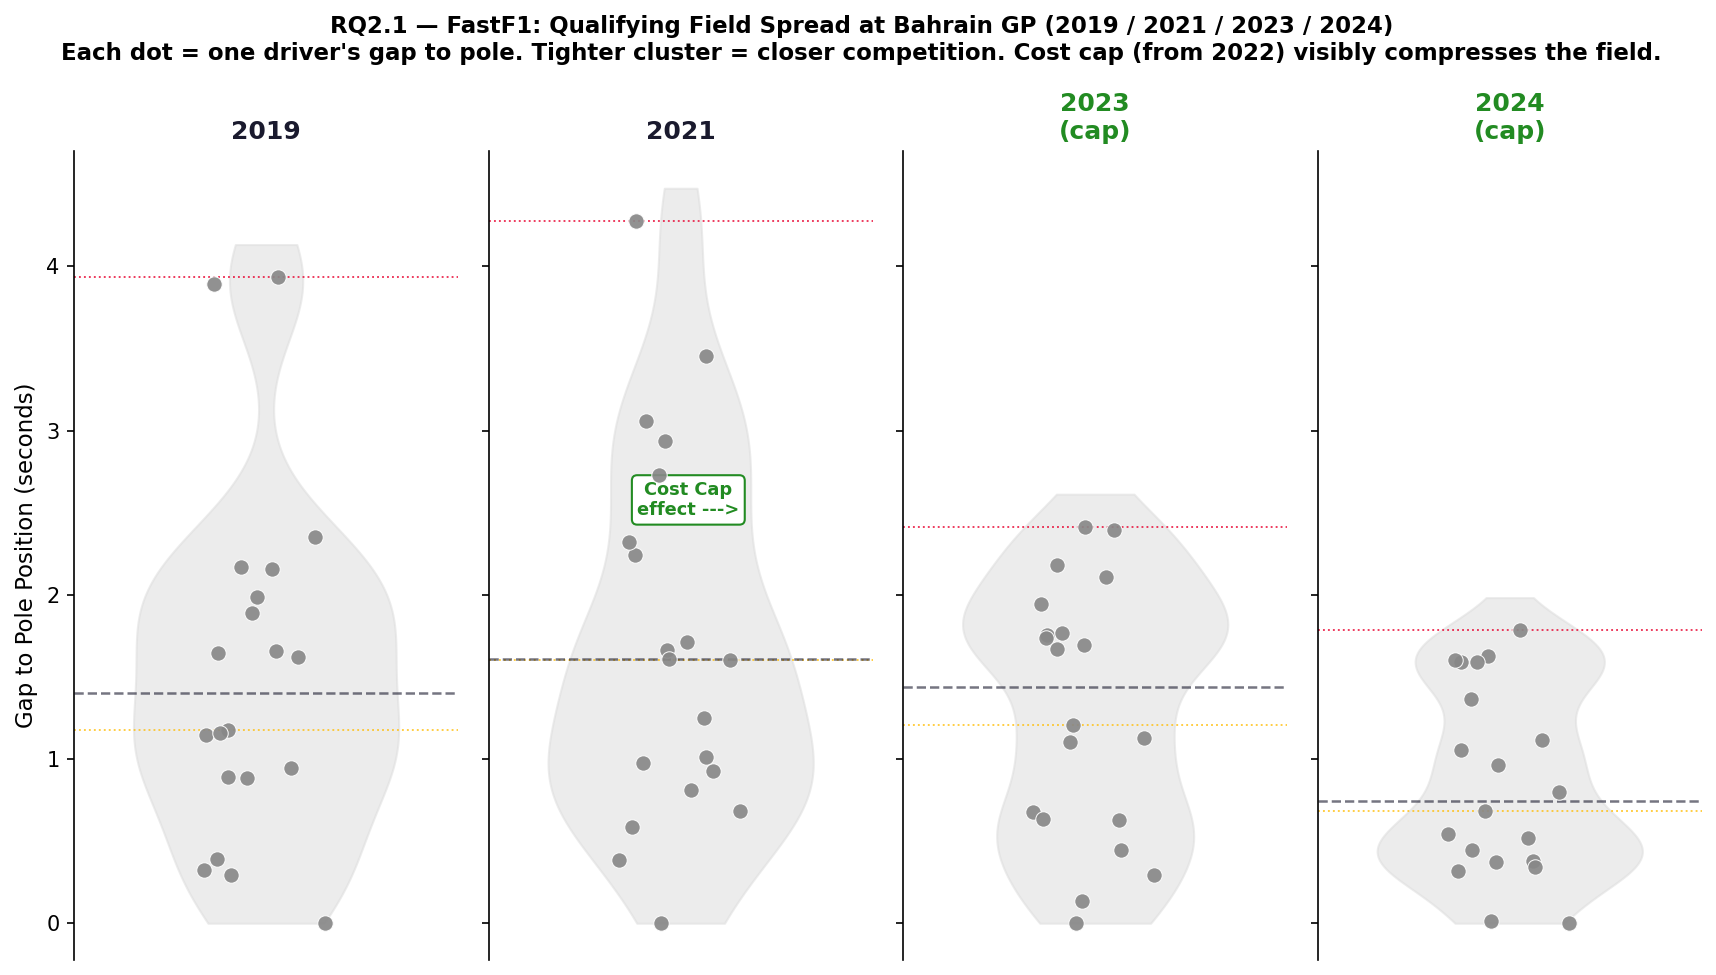
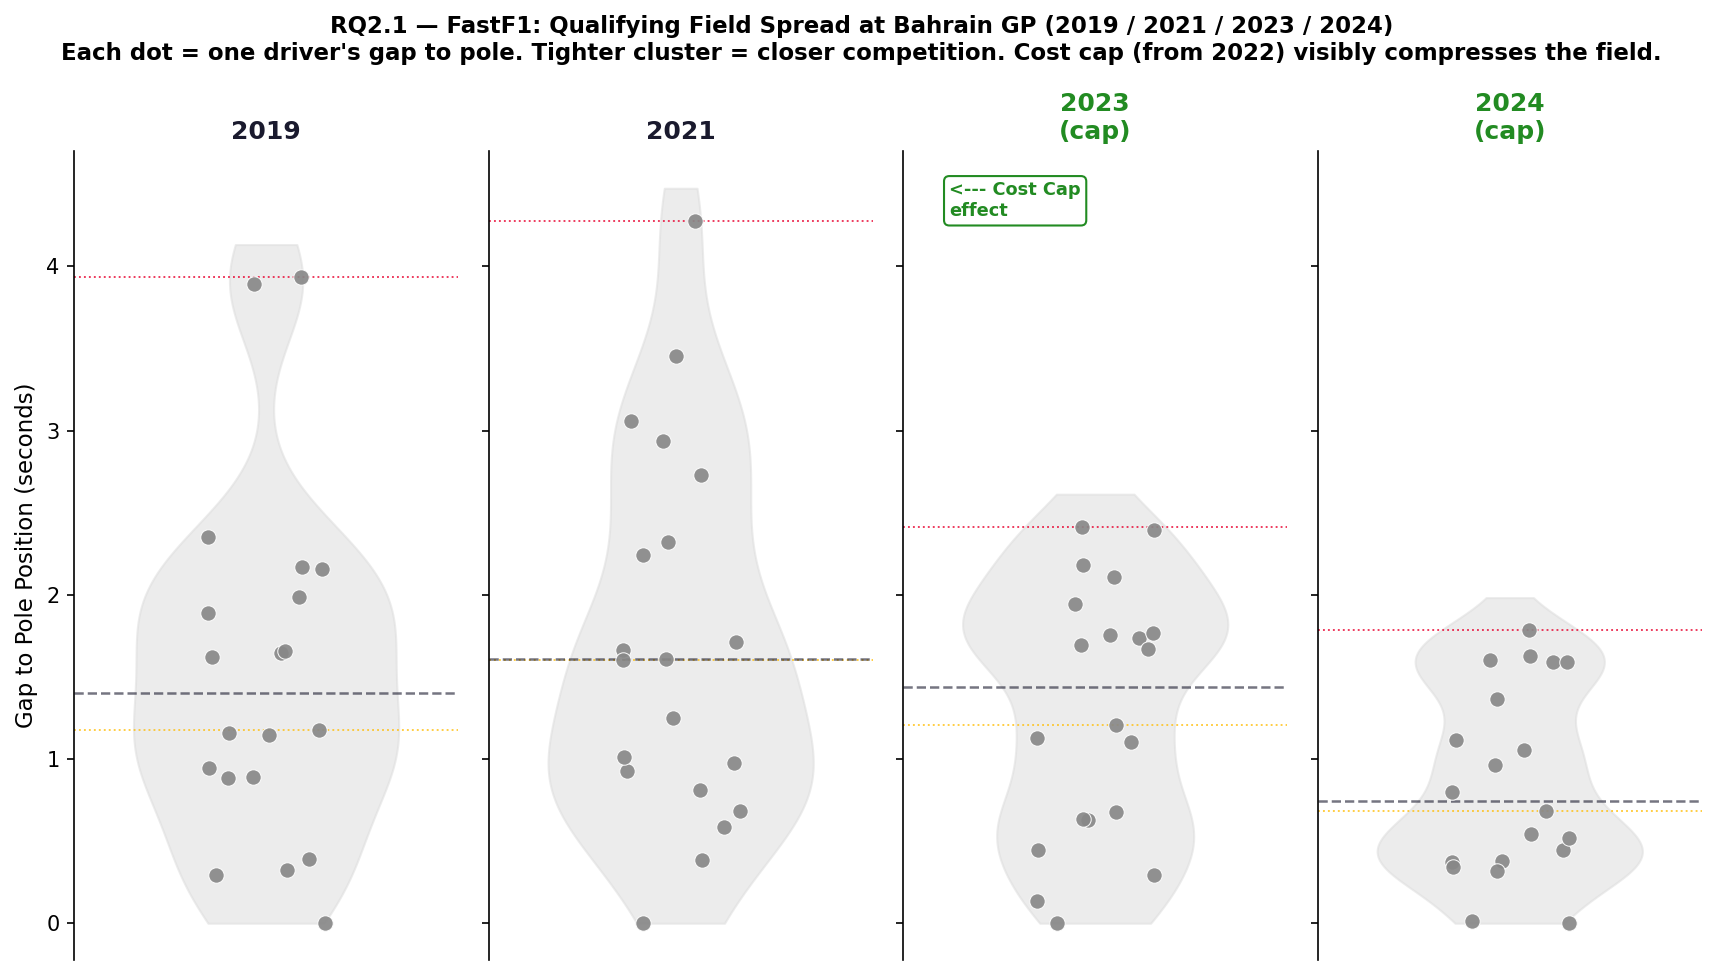
Some overlap fixed, the rest of the overlap still needs to be fixed I simply am too tired to try and fix it.

diff --git a/final_report/create_plots.py b/final_report/create_plots.py
@@ -473,7 +473,7 @@ def plot_rq2a_points_heatmap():
 
     matrix = matrix.fillna(0).astype(float)
 
-    fig, ax = plt.subplots(figsize=(12, 7))
+    fig, ax = plt.subplots(figsize=(14, 7))
     fig.patch.set_facecolor(BG)
     ax.set_facecolor(BG)
 
@@ -509,7 +509,7 @@ def plot_rq2a_points_heatmap():
             fontsize=8, color=GREEN,   va="center", ha="left",
             bbox=dict(boxstyle="round,pad=0.3", fc=BG, ec=GREEN, alpha=0.9))
 
-    cbar = plt.colorbar(im, ax=ax, fraction=0.028, pad=0.01)
+    cbar = plt.colorbar(im, ax=ax, fraction=0.028, pad=0.15)
     cbar.set_label("Total Points Scored (all teams combined)", fontsize=9)
 
     ax.set_title(
@@ -795,7 +795,7 @@ def plot_rq2_1a_field_spread():
         # overlap with the ridge fill which peaks between x=0.5 and x=2
         ax.annotate(
             "Cost Cap\nIntroduced\n(2021 Season)",
-            xy=(0.8, y_cc + offset_h * 0.55), xytext=(3.8, y_cc + offset_h * 0.55),
+            xy=(0.8, y_cc + offset_h * 0.55), xytext=(6.0, y_cc + offset_h * 0.55),
             fontsize=8, color="#333333",
             arrowprops=dict(arrowstyle="->", color="#555555", lw=0.8),
             bbox=dict(boxstyle="round,pad=0.3", fc="#FFF9C4", ec="#CCCC00", alpha=0.9),
@@ -1279,7 +1279,7 @@ def plot_rq3b_confusion_matrix():
 
     ax.annotate(
         "Off-diagonal entries:\nDriver skill / strategy\noverride car advantage",
-        xy=(3, 0), xytext=(5.5, 0.5), fontsize=8, color=DARK,
+        xy=(3, 0), xytext=(3.0, -1.8), fontsize=8, color=DARK,
         arrowprops=dict(arrowstyle="->", color=DARK, lw=0.8),
         bbox=dict(boxstyle="round,pad=0.3", fc="white", ec=GREY, alpha=0.85),
     )
@@ -1474,7 +1474,7 @@ def plot_extra_quali_vs_race_dumbbell():
     # sort so the best-finishing driver is at the TOP of the chart
     df   = df.sort_values("AvgFinishPos").head(15).reset_index(drop=True)
 
-    fig, ax = plt.subplots(figsize=(11, 7))
+    fig, ax = plt.subplots(figsize=(11, 9))
     fig.patch.set_facecolor(BG)
     ax.set_facecolor(BG)
 
@@ -1830,8 +1830,9 @@ def plot_extra_pole_to_win_rate():
 
     # reference line at 50%
     ax.axhline(0.50, color=GREY, linewidth=1.2, linestyle="--", alpha=0.6)
-    ax.text(all_years[-1] + 0.3, 0.505, "50% reference",
-            fontsize=8.5, color=GREY, va="bottom")
+    ax.text(0.01, 0.505, "50% reference",
+            transform=ax.get_yaxis_transform(),
+            fontsize=8.5, color=GREY, va="bottom", ha="left")
 
     # 2021 cost cap marker
     ax.axvline(2021 - 0.5, color=GREEN, linewidth=2, linestyle=":", alpha=0.8)
@@ -2239,11 +2240,11 @@ def plot_fastf1_quali_field_spread():
             ax.set_ylabel("Gap to Pole Position (seconds)", fontsize=11)
 
     # shared annotation: cost cap arrow between 2021 and 2023 columns
-    axes[1].annotate(
-        "Cost Cap\neffect --->",
-        xy=(0.52, 0.55), xycoords="axes fraction",
+    axes[2].annotate(
+        "<--- Cost Cap\neffect",
+        xy=(0.12, 0.92), xycoords="axes fraction",
         fontsize=8.5, color=GREEN, fontweight="bold",
-        ha="center",
+        ha="left",
         bbox=dict(boxstyle="round,pad=0.3", fc="white", ec=GREEN, lw=1.0),
     )
 
@@ -2575,7 +2576,7 @@ def plot_fastf1_champion_pace():
 
     # stagger end-of-line labels so nearby drivers don't overlap
     end_labels.sort(key=lambda t: t[0])
-    min_gap = 0.22  # minimum vertical gap between labels (% units)
+    min_gap = 0.40  # minimum vertical gap between labels (% units)
     nudged_y = [end_labels[0][0]]
     for i in range(1, len(end_labels)):
         y_prev = nudged_y[-1]
@@ -2610,7 +2611,7 @@ def plot_fastf1_champion_pace():
         fontsize=11, fontweight="bold", pad=10,
     )
     ax.set_xticks(all_rounds)
-    ax.set_xlim(min(all_rounds) - 0.5, max(all_rounds) + 1.5)
+    ax.set_xlim(min(all_rounds) - 0.5, max(all_rounds) + 2.5)
     ax.grid(linestyle="--", alpha=0.25)
     ax.spines["top"].set_visible(False)
     ax.spines["right"].set_visible(False)

diff --git a/final_report/walk_forward_model.py b/final_report/walk_forward_model.py
@@ -1226,7 +1226,7 @@ def plot_pl_ability_evolution(df_pred, year=2023, outdir=PLOT_DIR):
     # top-8 drivers by maximum observed θ (avoids 20-line spaghetti plot)
     top_drivers = pivot.max(axis=0).nlargest(8).index.tolist()
 
-    fig, ax = plt.subplots(figsize=(12, 6))
+    fig, ax = plt.subplots(figsize=(13, 6))
 
     cmap = plt.get_cmap("tab10")
     for i, drv in enumerate(top_drivers):
@@ -1235,17 +1235,13 @@ def plot_pl_ability_evolution(df_pred, year=2023, outdir=PLOT_DIR):
         series = pivot[drv].dropna()
         ax.plot(series.index, series.values, lw=2.2, marker="o", markersize=3,
                 color=cmap(i), label=drv)
-        if len(series) > 0:
-            ax.annotate(drv, (series.index[-1], series.values[-1]),
-                        xytext=(4, 0), textcoords="offset points",
-                        fontsize=8, color=cmap(i), va="center")
 
     ax.axhline(0, color="#999", lw=0.8, ls="--", alpha=0.5, label="Prior mean level")
     ax.set_xlabel("Prior races observed (information fed to PL model)", fontsize=12)
     ax.set_ylabel("PL log-quality score θ* (MAP estimate)\nhigher = model thinks driver is better", fontsize=11)
     ax.set_title(f"Plackett-Luce Ability Evolution — {year} Season\n"
                  f"(how the PL posterior updates as race results accumulate)", fontsize=12)
-    ax.legend(fontsize=9, loc="upper left", bbox_to_anchor=(0.0, 0.99))
+    ax.legend(fontsize=9, loc="upper left", bbox_to_anchor=(1.01, 1.0), borderaxespad=0)
     ax.grid(True, alpha=0.3)
 
     plt.tight_layout()
